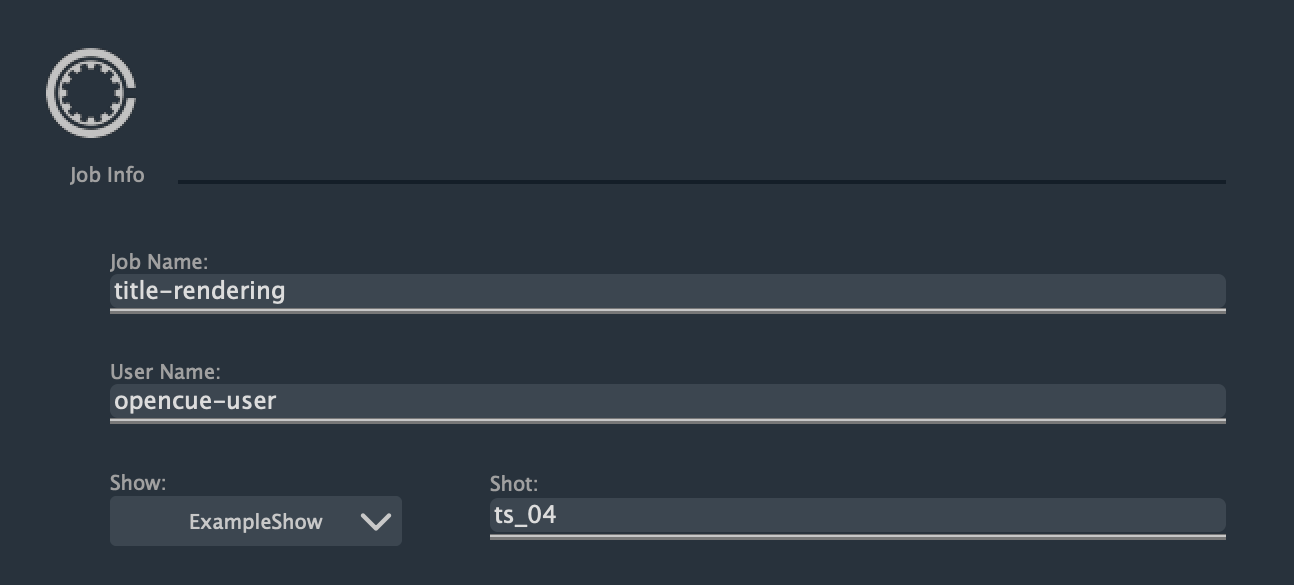
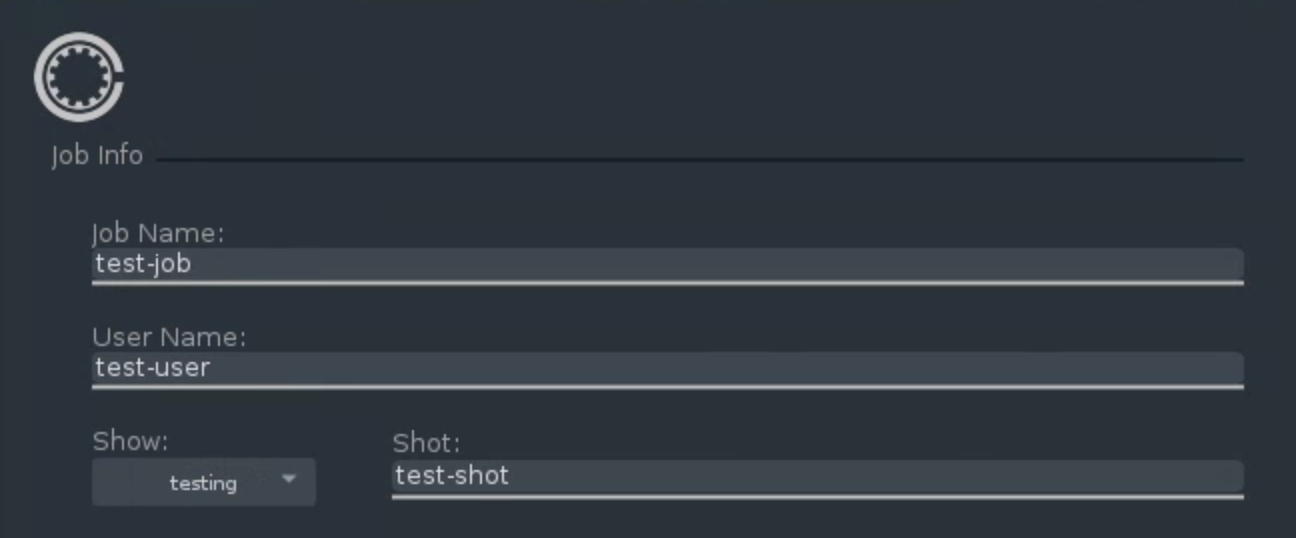
Update CueSubmit config and submit instructions

diff --git a/content/docs/User guides/submitting-jobs.md b/content/docs/User guides/submitting-jobs.md
@@ -4,24 +4,47 @@ linkTitle: "Submitting jobs"
 date: 2019-03-15
 weight: 1
 description: >
-  Submit rendering jobs to OpenCue from CueSubmit
+  Submit rendering and shell jobs to OpenCue from CueSubmit
 ---
 
-This guide describes how to submit a job to OpenCue using the stand-alone
+This guide describes how to submit jobs to OpenCue using the stand-alone
 version of CueSubmit and configure relevant rendering settings. A job is a
 collection of layers, which is sent as a script to the queue to be processed
 on remote cores. Each job can contain one or more layers, which are sub-jobs
 in an outline script job. Each layer contains a frame range and a command to
 execute.
 
+You can select from the following pre-configured job types:
+
+*   Blender
+*   Maya
+*   Nuke
+
+Alternatively, you can submit shell commands to OpenCue for
+processing on RQD rendering nodes. Your RQD rendering nodes must support
+the neccessary software to complete the job you are submitting otherwise
+the job will fail.
+
 ## Before you begin
 
-Make sure your OpenCue admin has
-[installed CueSubmit](/docs/getting-started/installing-cuesubmit/).
+This guide describes submitting jobs using the OpenCue sandbox environment
+running Blender. The steps for submitting jobs in a production environment
+are very similar but will vary depending on the configuration choices
+your OpenCue admin has made.
 
-## Submitting a job
+To learn how to install Blender in the OpenCue sandbox environment,
+see [Customizing RQD rendering hosts](/docs/other-guides/customizing-rqd/)
 
-To submit a job to OpenCue:
+If you're working in a production environment, make sure your OpenCue admin
+has [installed CueSubmit](/docs/getting-started/installing-cuesubmit/).
+
+## Submitting a render job
+
+This section of the guide uses a Blender job to illustrate submitting
+a rendering job. The process for submitting Maya and Nuke jobs is very
+similar.
+
+To submit a Blender job to OpenCue:
 
 1.  Start CueSubmit.
 
@@ -47,12 +70,96 @@ To submit a job to OpenCue:
 1.  Enter the name for the **Shot** to send to OpenCue.
 
     A shot is a series of uninterupted frames you need to render. Choose a
-    shot name that describes the shot that this job relates to, such as
-    `ts_04`, short for 'Title sequence 4'.
+    shot name that describes the shot that this job relates to.
     
     The following screenshot illustrates a completed job info form:
     
     ![CueSubmit job info form](/docs/images/cuesubmit_job_info.png)
+
+1.  For **Job Type**, select **Blender**.
+
+    The CueSubmit layer info dialoge updates the submission form.
+
+1.  Enter a **Layer Name** to name the first layer in your job.
+
+    {{% alert title="Note" color="info"%}}Layer names must contain more than
+    3 characters and contain no spaces.{{% /alert %}}
+    
+    Choose a layer name that describes the task the layer is performing,
+    such as 'rendering' or 'compositing'.
+
+1.  In **Blender File**, enter the location of a Blener project file
+    with the `.blend` extension, such as `/tmp/rqd/shots/myproject.blend`.
+
+1.  In **Output Path**, enter the location that your RQD rendering nodes
+    can write the output of the jobs, such as `/tmp/rqd/shots/`
+
+1.  For **Output Format**, select your desired output format, such as
+    **JPEG**.
+
+1.  In **Frame Spec**, enter the range of frames you want to process, such as
+    `1-10`.
+
+    A frame spec consists of a start time, an optional end time, a step,
+    and an interleave. To add multiple ranges together, separate them
+    by commas. For detailed examples of the frame spec syntax, click **?**.
+
+1.  Select the required **Services** from the available list for your job.
+
+    OpenCue matches jobs with machines, based on the selected service.
+    
+    The following screenshot illustrates a completed layer info form:
+
+    ![CueSubmit Blender layer info](/docs/images/cuesubmit_blender_layer_info.png)
+
+1.  Review the summary information in **Submission Details** to verify your
+    settings, as illustrated by the following screenshot:
+    
+    ![CueSubmit submission details summary](/docs/images/cuesubmit__blender_submission_details.png)
+
+1.  Optionally, to add more layers to this job, click **+**.
+
+1.  When you're ready to submit your job, click **Submit**.
+
+## Submitting a shell job
+
+This section of the guide describes submitting a Blender file for rendering
+as a shell job. You can submit a variety of shell jobs to OpenCue as long as
+the neccessary software is installed on your RQD rendering nodes.
+
+To submit a shell job to OpenCue:
+
+1.  Start CueSubmit.
+
+    {{% alert title="Note" color="info"%}}The instructions for running
+    CueSubmit vary depending on the installation method. To learn more, see
+    [Installing CueSubmit](/docs/getting-started/installing-cuesubmit)
+    or contact your OpenCue admin.{{% /alert %}}
+
+1.  Enter a **Job Name**.
+
+    The job name is an arbitrary value that you choose when creating the
+    job.
+    
+    {{% alert title="Note" color="info"%}}You can follow the naming convention
+    for your rendering facility, as long as the job name is unique, contains
+    more than 3 characters, and contains no spaces.{{% /alert %}}
+
+1.  Select a **Show**.
+
+    A show is a group of related jobs for OpenCue to process. Jobs you submit
+    to OpenCue exist within the context of a show.
+
+1.  Enter the name for the **Shot** to send to OpenCue.
+
+    A shot is a series of uninterupted frames you need to render. Choose a
+    shot name that describes the shot that this job relates to.
+    
+    The following screenshot illustrates a completed job info form:
+    
+    ![CueSubmit job info form](/docs/images/cuesubmit_job_info.png)
+
+1.  Set **Job Type** to **Shell**.
 
 1.  Enter a **Layer Name** to name the first layer in your job.
 
@@ -72,24 +179,18 @@ To submit a job to OpenCue:
     to run simiar to the following:
     
     ```bash
-    /usr/local/blender/blender -b \
-      -noaudio <path-blender-file>.blend \
-      -o /renderoutput/ts_04.##### \
-      -F JPEG \
-      -f #IFRAME#
+    /usr/local/blender/blender -b -noaudio /tmp/rqd/shots/<your-blender-file>.blend -o /tmp/rqd/shots/test-shot.##### -F JPEG -f #IFRAME#
     ```
-    
-    In this example, based on the frame padding `#####`, OpenCue writes the
-    output for frame 325 on disk, as file `ts_04.00325.jpg`.
 
-1.  In **Frame Spec**, enter the range of frames you want to process.
+    In this example, based on the frame padding `#####`, OpenCue writes the
+    output for frame 5 on disk, as file `test-shot.00005.jpg`.
+
+1.  In **Frame Spec**, enter the range of frames you want to process, such as
+    `1-10`.
 
     A frame spec consists of a start time, an optional end time, a step,
     and an interleave. To add multiple ranges together, separate them
     by commas. For detailed examples of the frame spec syntax, click **?**.
-
-1.  Set **Job Type** to either **Shell** or the name of the software package
-    you're using for this layer in the job.
 
 1.  Select the required **Services** from the available list for your job.
 
@@ -97,12 +198,12 @@ To submit a job to OpenCue:
     
     The following screenshot illustrates a completed layer info form:
 
-    ![CueSubmit layer info](/docs/images/cuesubmit_layer_info.png)
+    ![CueSubmit shell layer info](/docs/images/cuesubmit_shell_layer_info.png)
 
 1.  Review the summary information in **Submission Details** to verify your
     settings, as illustrated by the following screenshot:
     
-    ![CueSubmit submission details summary](/docs/images/cuesubmit_submission_details.png)
+    ![CueSubmit shell submission details summary](/docs/images/cuesubmit_shell_submission_details.png)
 
 1.  Optionally, to add more layers to this job, click **+**.
 

diff --git a/content/docs/Other guides/customizing-rqd.md b/content/docs/Other guides/customizing-rqd.md
@@ -151,7 +151,36 @@ works with version 2.79 of Blender or earlier.{{% /alert %}}
 
 After you download a suitable `.blend` Blender file, move it to the
 `/tmp/rqd/shots` directory. The sandbox environment is configured so that both
-your host machine and the RQD container can both access this directory.
+your host machine and the RQD container can access the `/tmp/rqd/shots`
+directory.
+
+If you're starting CueSubmit and CueGUI in the OpenCue sandbox, you need
+to set the values of the following environment variables in your Python
+environment:
+
+        source venv/bin/activate
+        export OL_CONFIG=pyoutline/etc/outline.cfg
+        export CUEBOT_HOSTS=localhost
+
+If you want to submit a Blender job type in the sandbox environment, then
+you must also update the CueSubmit configuration:
+
+1.  Copy the example CueSubmit config file:
+
+        cp cuesubmit/cuesubmit_config.example.yaml sandbox/cuesubmit_config.yaml
+
+1.  Open `sandbox/cuesubmit_config.yaml` in your preferred text editor.
+
+1.  Update the value of `BLENDER_RENDER_CMD` to match the installation
+    location in the RQD container image:
+
+    ```yaml
+    BLENDER_RENDER_CMD : "/usr/local/blender/blender"
+    ```
+
+1.  Set the value of the following environment variable:
+
+        export CUESUBMIT_CONFIG_FILE=sandbox/cuesubmit_config.yaml
 
 To test submitting a Blender job to OpenCue, see
 [Submitting jobs](/docs/user-guides/submitting-jobs/).
